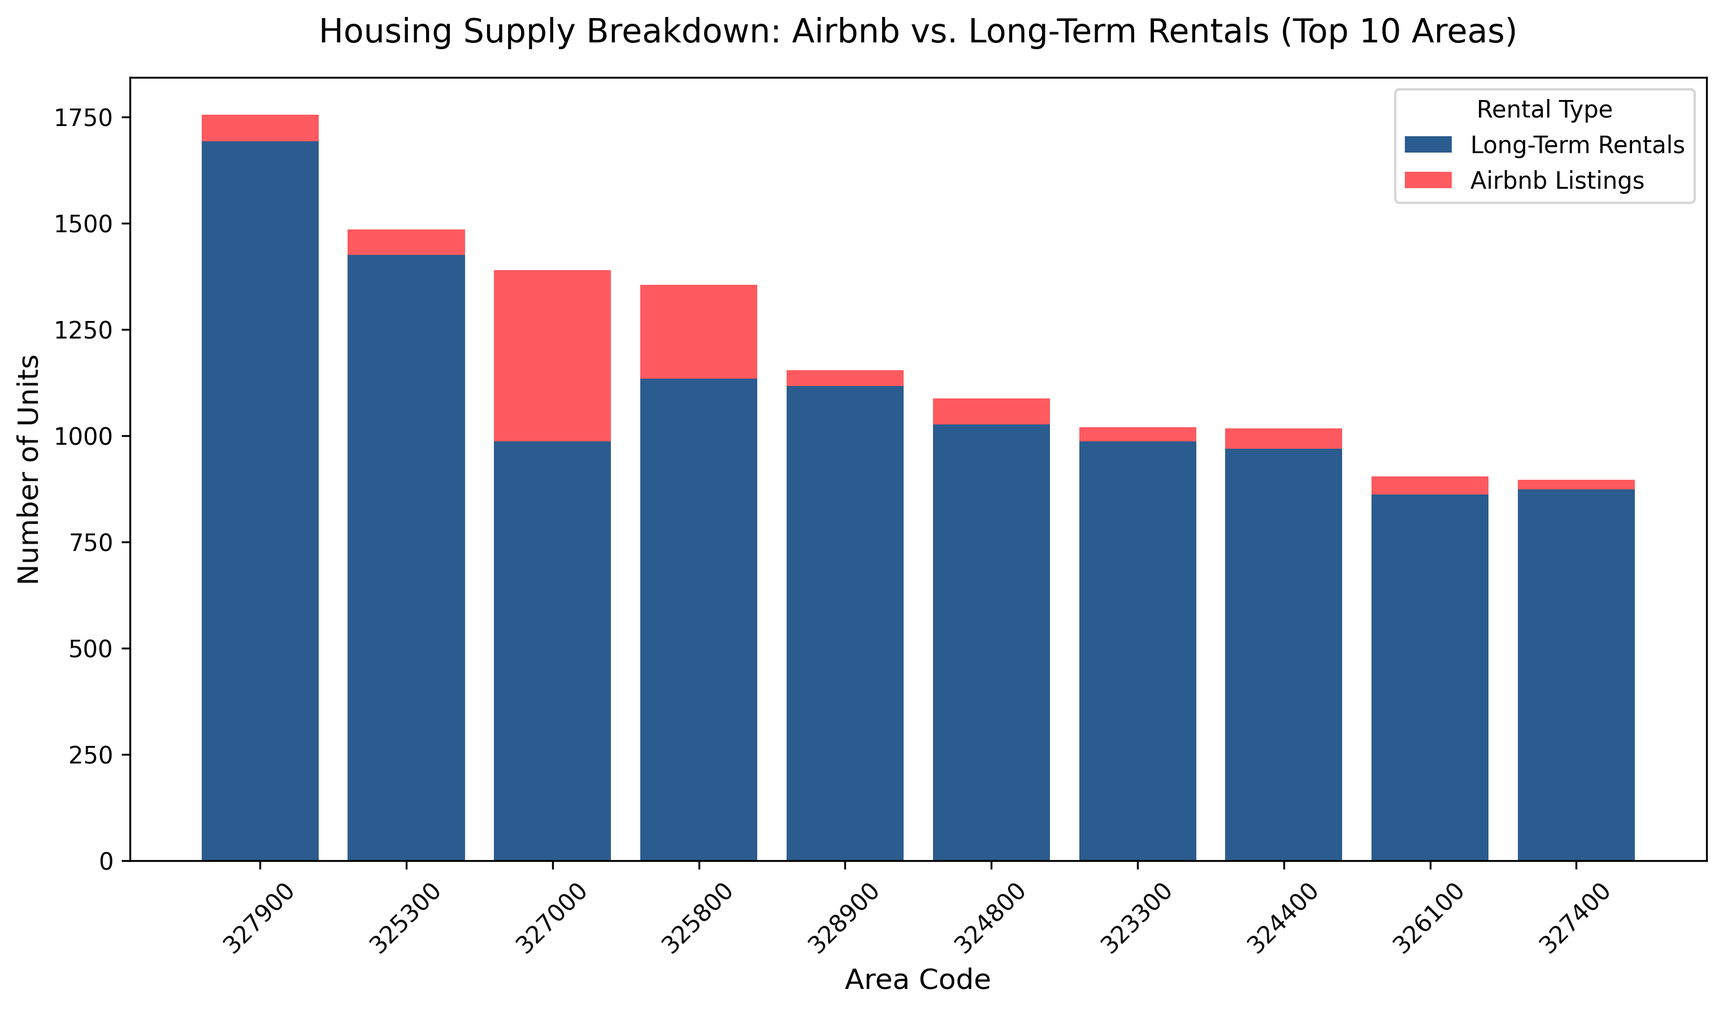
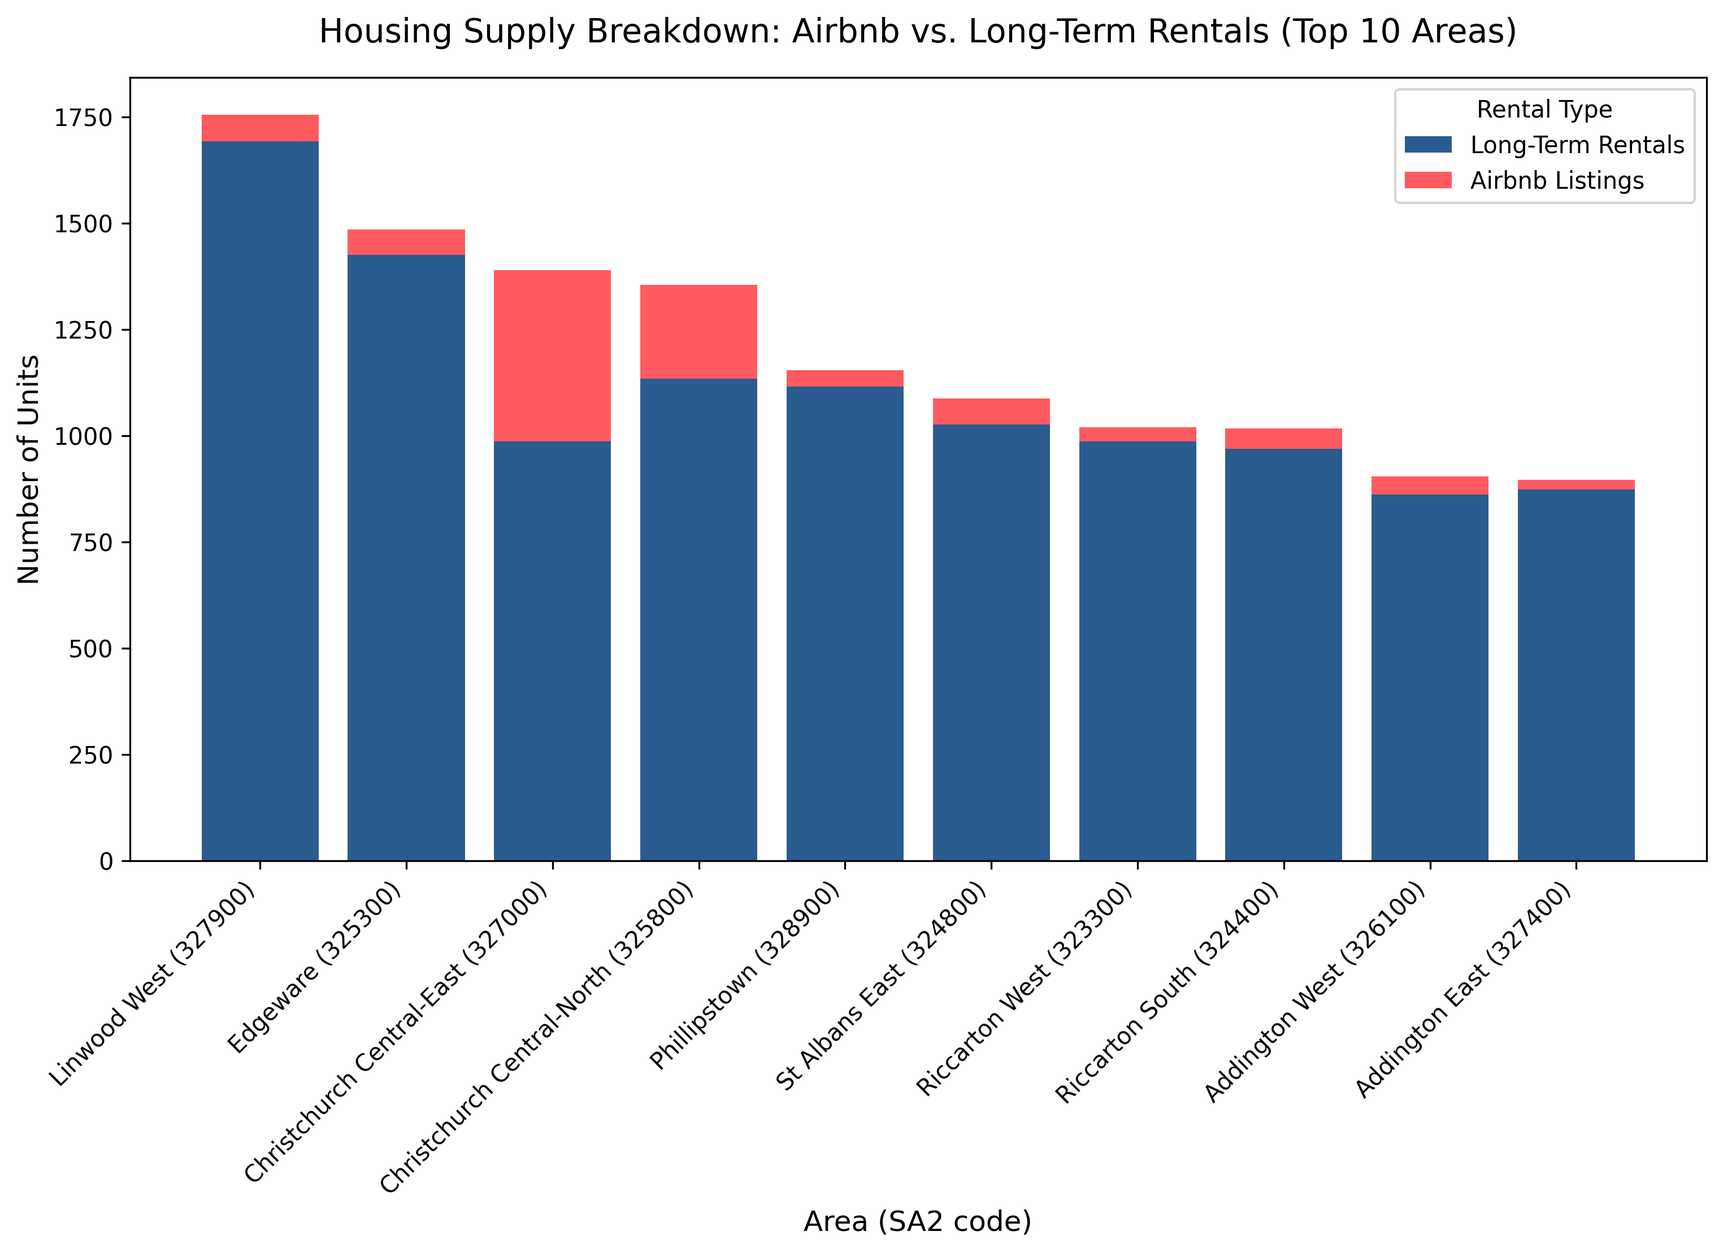
add tqdm progress bar and SA2 Names for visualisation

diff --git a/src/W7_Deliverable_5/fetch_area_codes.py b/src/W7_Deliverable_5/fetch_area_codes.py
@@ -14,6 +14,7 @@ from pathlib import Path
 import pandas as pd
 import requests
 from dotenv import load_dotenv
+from tqdm import tqdm
 
 sys.path.append(str(Path(__file__).resolve().parents[1]))  # lets this file find src/config.py
 import config
@@ -27,14 +28,33 @@ MAX_WORKERS = 8
 REQUEST_TIMEOUT_SECONDS = 10
 
 
-def query_layer(lat, lon, api_key, layer_id=config.SA2_2019_LAYER_ID):
-    """Return the SA2-2019 code containing (lat, lon), or None if it cannot be found."""
+def load_api_key():
+    """Read STATS_NZ_API_KEY from the root .env file and check that it works."""
+    load_dotenv(config.ENV_FILE)
+    api_key = os.getenv("STATS_NZ_API_KEY")
+    if not api_key:
+        sys.exit(
+            f"[ERROR] STATS_NZ_API_KEY not found. Copy .env.example to {config.ENV_FILE} "
+            "and add your Stats NZ Datafinder key."
+        )
+
+    print("Testing API connection with SA2 2019 layer...")
+    test_area = query_sa2(*TEST_POINT, api_key)
+    if not test_area:
+        sys.exit("[ERROR] API test failed. Check your API key in .env and your internet connection.")
+    print(f"API connection successful. Test area: {test_area[config.SA2_2019_NAME_FIELD]}")
+    return api_key
+
+
+def query_sa2(lat, lon, api_key, layer_id=config.SA2_2019_LAYER_ID):
+    """Return the SA2-2019 area containing (lat, lon) as a dict of its properties
+    (code, name, size), or None if it cannot be found."""
     params = {"key": api_key, "layer": layer_id, "x": lon, "y": lat}
     try:
         response = requests.get(API_URL, params=params, timeout=REQUEST_TIMEOUT_SECONDS)
         response.raise_for_status()
     except requests.RequestException as error:
-        print(f"[WARN] API request failed for ({lat}, {lon}): {error}")
+        tqdm.write(f"[WARN] API request failed for ({lat}, {lon}): {error}")
         return None
 
     features = (
@@ -44,27 +64,19 @@ def query_layer(lat, lon, api_key, layer_id=config.SA2_2019_LAYER_ID):
         .get(str(layer_id), {})
         .get("features", [])
     )
-    if not features:
-        return None
-    return features[0]["properties"].get(config.SA2_2019_CODE_FIELD)
+    return features[0]["properties"] if features else None
+
+
+def query_many(coords, api_key, description):
+    """Query a list of (lat, lon) pairs in parallel, with a progress bar."""
+    with ThreadPoolExecutor(max_workers=MAX_WORKERS) as pool:
+        results = pool.map(lambda c: query_sa2(c[0], c[1], api_key), coords)
+        return list(tqdm(results, total=len(coords), desc=description, unit="request"))
 
 
 def main():
-    load_dotenv(config.ENV_FILE)
-    api_key = os.getenv("STATS_NZ_API_KEY")
-    if not api_key:
-        sys.exit(
-            f"[ERROR] STATS_NZ_API_KEY not found. Copy .env.example to {config.ENV_FILE} "
-            "and add your Stats NZ Datafinder key."
-        )
-
+    api_key = load_api_key()
     airbnb_df = pd.read_csv(config.require(config.CHCH_CLEAN))
-
-    print("Testing API connection with SA2 2019 layer...")
-    test_code = query_layer(*TEST_POINT, api_key)
-    if not test_code:
-        sys.exit("[ERROR] API test failed. Check your API key in .env and your internet connection.")
-    print(f"API connection successful. Test area code: {test_code}")
 
     # Many rows share a location, so query each unique coordinate pair only once.
     coords = list(
@@ -75,9 +87,11 @@ def main():
     )
     print(f"Total rows: {len(airbnb_df):,} | Unique locations to query: {len(coords):,}")
 
-    with ThreadPoolExecutor(max_workers=MAX_WORKERS) as pool:
-        codes = list(pool.map(lambda c: query_layer(c[0], c[1], api_key), coords))
-    coord_lookup = dict(zip(coords, codes))
+    areas = query_many(coords, api_key, "Looking up area codes")
+    coord_lookup = {
+        coord: area.get(config.SA2_2019_CODE_FIELD) if area else None
+        for coord, area in zip(coords, areas)
+    }
 
     airbnb_df["area_code"] = [
         coord_lookup.get((lat, lon))

diff --git a/src/W7_Deliverable_5/fetch_area_names.py b/src/W7_Deliverable_5/fetch_area_names.py
@@ -1,0 +1,54 @@
+"""Deliverable 5: look up the name of every SA2 area in the data (e.g. 322200 -> Rutland).
+
+The bond data only has SA2 codes, so the names come from the same Stats NZ API
+as the area codes. One listing location per area is enough: 171 requests
+instead of one per listing. The result is saved, so run_pipeline.py skips
+this step when it already exists.
+"""
+import sys
+from pathlib import Path
+
+import pandas as pd
+
+sys.path.append(str(Path(__file__).resolve().parents[1]))  # lets this file find src/config.py
+import config
+from fetch_area_codes import load_api_key, query_many
+
+
+def main():
+    api_key = load_api_key()
+    airbnb_df = pd.read_csv(
+        config.require(config.AIRBNB_WITH_AREA_CODES), dtype={"area_code": "string"}
+    )
+    airbnb_df["area_code"] = config.clean_area_code(airbnb_df["area_code"])
+
+    # One listing location per area code is enough to identify the area.
+    sample = airbnb_df.dropna(subset=["area_code"]).drop_duplicates("area_code")
+    coords = list(sample[["latitude", "longitude"]].itertuples(index=False, name=None))
+    areas = query_many(coords, api_key, "Looking up area names")
+
+    names = pd.DataFrame(
+        {
+            "area_code": sample["area_code"].to_numpy(),
+            "area_name": [area.get(config.SA2_2019_NAME_FIELD) if area else None for area in areas],
+            "api_code": [area.get(config.SA2_2019_CODE_FIELD) if area else None for area in areas],
+        }
+    )
+
+    # The same point must fall in the same area it was coded to in step 1.
+    mismatched = names["api_code"].notna() & (names["api_code"] != names["area_code"])
+    if mismatched.any():
+        sys.exit(f"[ERROR] {mismatched.sum()} areas returned a different code than before.")
+
+    missing = names["area_name"].isna().sum()
+    if missing:
+        print(f"[WARN] {missing} areas did not get a name; charts will show their code instead.")
+
+    names = names.drop(columns="api_code").sort_values("area_code")
+    names.to_csv(config.SA2_AREA_NAMES, index=False)
+    print(f"Found names for {names['area_name'].notna().sum()} of {len(names)} areas")
+    print(f"Saved to: {config.SA2_AREA_NAMES}")
+
+
+if __name__ == "__main__":
+    main()

diff --git a/src/run_pipeline.py b/src/run_pipeline.py
@@ -15,7 +15,11 @@ from pathlib import Path
 import config
 
 SRC_DIR = Path(__file__).resolve().parent
-API_STEP = "W7_Deliverable_5/fetch_area_codes.py"
+# Steps that call the Stats NZ API: slow and need a key, so their saved output is reused.
+API_STEPS = {
+    "W7_Deliverable_5/fetch_area_codes.py": config.AIRBNB_WITH_AREA_CODES,
+    "W7_Deliverable_5/fetch_area_names.py": config.SA2_AREA_NAMES,
+}
 
 STEPS = [
     # Deliverable 3: combine the monthly snapshots, summary statistics, plots
@@ -26,8 +30,8 @@ STEPS = [
     "W6_Deliverable_4/clean_christchurch.py",
     "W6_Deliverable_4/filter_timeframe.py",
     "W6_Deliverable_4/clean_bond_data.py",
-    # Deliverable 5: area codes, merge, checks, analysis
-    API_STEP,
+    # Deliverable 5: area codes and names, merge, checks, analysis
+    *API_STEPS,
     "W7_Deliverable_5/merge_datasets.py",
     "W7_Deliverable_5/merge_datasets_sql.py",
     "W7_Deliverable_5/sanity_checks.py",
@@ -42,14 +46,14 @@ def main():
     parser.add_argument(
         "--refresh-area-codes",
         action="store_true",
-        help="query the Stats NZ API again even if area codes are already saved",
+        help="query the Stats NZ API again even if area codes and names are already saved",
     )
     args = parser.parse_args()
 
     for step in STEPS:
-        # The API step is slow and needs a key, so reuse its saved output when possible.
-        if step == API_STEP and config.AIRBNB_WITH_AREA_CODES.exists() and not args.refresh_area_codes:
-            print(f"\n=== Skipping {step} (using saved {config.AIRBNB_WITH_AREA_CODES.name}) ===", flush=True)
+        saved_output = API_STEPS.get(step)
+        if saved_output and saved_output.exists() and not args.refresh_area_codes:
+            print(f"\n=== Skipping {step} (using saved {saved_output.name}) ===", flush=True)
             continue
 
         print(f"\n=== Running {step} ===", flush=True)

diff --git a/src/config.py b/src/config.py
@@ -38,6 +38,7 @@ CHCH_CLEAN = INTERIM_DIR / "christchurch_listings_clean.csv"  # W6 clean_christc
 BOND_TIMEFRAME = INTERIM_DIR / "bond_data_timeframe.csv"  # W6 filter_timeframe.py
 BOND_CLEAN = INTERIM_DIR / "bond_data_clean.csv"  # W6 clean_bond_data.py
 AIRBNB_WITH_AREA_CODES = INTERIM_DIR / "airbnb_with_area_codes.csv"  # W7 fetch_area_codes.py
+SA2_AREA_NAMES = INTERIM_DIR / "sa2_area_names.csv"  # W7 fetch_area_names.py
 SQLITE_DB = INTERIM_DIR / "christchurch_housing.db"  # W7 merge_datasets_sql.py
 
 # --- Processed files ---
@@ -61,6 +62,7 @@ TOP_N = 10
 # Stats NZ Datafinder: Statistical Area 2 2019 layer (matches the bond data's SA2-2019 IDs).
 SA2_2019_LAYER_ID = "98970"
 SA2_2019_CODE_FIELD = "SA22019_V1_00"
+SA2_2019_NAME_FIELD = "SA22019_V1_00_NAME"
 
 # English month names written out, so labels do not depend on the computer's language settings.
 MONTH_NAMES = ["Jan", "Feb", "Mar", "Apr", "May", "Jun", "Jul", "Aug", "Sep", "Oct", "Nov", "Dec"]
@@ -97,3 +99,14 @@ def quarter_key(month_year):
 def clean_area_code(codes):
     """Normalise SA2 codes to plain text ('326600'), dropping any trailing '.0'."""
     return codes.astype("string").str.replace(r"\.0$", "", regex=True).str.strip()
+
+
+def area_names():
+    """SA2 code -> area name (e.g. '322200' -> 'Rutland'), from the Stats NZ lookup."""
+    names = pd.read_csv(require(SA2_AREA_NAMES), dtype="string")
+    return dict(zip(names["area_code"], names["area_name"]))
+
+
+def area_label(code, name):
+    """Chart label such as 'Rutland (322200)'; just the code if the name is unknown."""
+    return f"{name} ({code})" if pd.notna(name) else str(code)

diff --git a/src/W7_Deliverable_5/q2_price_gap.py b/src/W7_Deliverable_5/q2_price_gap.py
@@ -30,15 +30,17 @@ def price_gaps_by_area(df):
 
 def plot_top_gaps(location_gaps):
     top = location_gaps.head(config.TOP_N).iloc[::-1]  # largest bar at the top
+    labels = [config.area_label(code, name) for code, name in zip(top.index, top["area_name"])]
 
     fig, ax = plt.subplots(figsize=(10, 6))
-    bars = ax.barh(top.index.astype(str), top["median"], color="#2b5c8f")
+    bars = ax.barh(labels, top["median"], color="#2b5c8f")
     ax.bar_label(bars, labels=[f"${v:.2f}" for v in top["median"]], padding=5, fontsize=10)
     ax.set_title(
-        f"Top {config.TOP_N} Area Codes by Short- vs. Long-Term Price Gap", fontsize=14, pad=15
+        f"Top {config.TOP_N} Areas by Short- vs. Long-Term Price Gap", fontsize=14, pad=15
     )
     ax.set_xlabel("Median Daily Price Gap ($)", fontsize=12)
-    ax.set_ylabel("Area Code", fontsize=12)
+    ax.set_ylabel("Area (SA2 code)", fontsize=12)
+    ax.set_xlim(0, top["median"].max() * 1.15)  # room for the value labels
     ax.grid(axis="x", alpha=0.3)
     fig.savefig(CHART_OUTPUT, dpi=300, bbox_inches="tight")
     plt.close(fig)
@@ -47,6 +49,7 @@ def plot_top_gaps(location_gaps):
 def main():
     df = pd.read_csv(config.require(config.MERGED), dtype={"area_code": "string"})
     location_gaps = price_gaps_by_area(df)
+    location_gaps.insert(0, "area_name", location_gaps.index.map(config.area_names()))
 
     config.D5_OUTPUT_DIR.mkdir(parents=True, exist_ok=True)
     location_gaps.to_csv(CSV_OUTPUT)

diff --git a/src/W7_Deliverable_5/q3_supply_comparison.py b/src/W7_Deliverable_5/q3_supply_comparison.py
@@ -35,7 +35,7 @@ def supply_by_area(df):
 def plot_top_supply(supply):
     # Areas without bond data have no total, so they cannot be ranked here.
     top = supply.dropna(subset=["total_supply"]).nlargest(config.TOP_N, "total_supply")
-    area_labels = top["area_code"].astype(str)
+    area_labels = [config.area_label(code, name) for code, name in zip(top["area_code"], top["area_name"])]
 
     fig, ax = plt.subplots(figsize=(12, 6))
     ax.bar(area_labels, top["long_term_rentals"], label="Long-Term Rentals", color="#2b5c8f")
@@ -51,10 +51,11 @@ def plot_top_supply(supply):
         fontsize=14,
         pad=15,
     )
-    ax.set_xlabel("Area Code", fontsize=12)
+    ax.set_xlabel("Area (SA2 code)", fontsize=12)
     ax.set_ylabel("Number of Units", fontsize=12)
     ax.legend(title="Rental Type")
     ax.tick_params(axis="x", rotation=45)
+    plt.setp(ax.get_xticklabels(), ha="right")
     fig.savefig(CHART_OUTPUT, dpi=300, bbox_inches="tight")
     plt.close(fig)
 
@@ -62,6 +63,7 @@ def plot_top_supply(supply):
 def main():
     df = pd.read_csv(config.require(config.MERGED), dtype={"area_code": "string"})
     supply = supply_by_area(df)
+    supply.insert(1, "area_name", supply["area_code"].map(config.area_names()))
 
     config.D5_OUTPUT_DIR.mkdir(parents=True, exist_ok=True)
     supply.to_csv(CSV_OUTPUT, index=False)

diff --git a/src/W7_Deliverable_5/best_practices_notes.md b/src/W7_Deliverable_5/best_practices_notes.md
@@ -30,13 +30,14 @@ src/             code, one folder per deliverable, plus config.py and run_pipeli
 | Change | Why (best practice) |
 |---|---|
 | Added `src/config.py`: every path and constant (city, quarters, SA2 layer, Christchurch Central code, days per week) is defined once. | **Single source of truth / no magic numbers.** Before, each script built its own paths, and values like `326600`, `7` and `"98970"` were typed inline. |
-| Added `src/run_pipeline.py`: runs all 13 steps in order, stops at the first failure, and skips the slow API step when its result already exists. | **Reproducibility:** one command rebuilds everything from raw data. |
-| Added `requirements.txt` and `.env.example`. | **Reproducible environment**, so a teammate knows which packages to install and how to set up the API key. We dropped `seaborn` and `tqdm`, which were only used for one chart and a progress bar. |
+| Added `src/run_pipeline.py`: runs all 14 steps in order, stops at the first failure, and skips the slow API steps when their results already exist. | **Reproducibility:** one command rebuilds everything from raw data. |
+| Added `requirements.txt` and `.env.example`. | **Reproducible environment**, so a teammate knows which packages to install and how to set up the API key. We dropped `seaborn`, which was only used for one chart. |
 | New `concatenate_chch.py` (Deliverable 3) replaces `Chch_Data_filtering.py` and `Summary Statistics.py`. It saves the summary tables as CSVs (numeric, categorical, date, missing values). | **Deliverable 3 requirements in one script.** It also avoids a version problem: `Summary Statistics.py` chose text columns by dtype `object`, which pandas 3 marks as deprecated for text columns (a warning now, and those columns will be missed in future versions). The new script classifies columns with `is_numeric_dtype`, which behaves the same on every version. |
 | Merged duplicate scripts: `Nic Q2` + `price_gap_analysis.py` → `q2_price_gap.py`, and `Nic Q3` + `supply_analysis.py` → `q3_supply_comparison.py`. | **DRY.** Each pair did the same calculation and overwrote the same output file. |
 | Shared helpers (quarter mapping, area-code cleaning, join inputs) are written once and reused by both merge scripts and the sanity checks. | **DRY.** `get_quarter_start()` used to be copied in two files. |
 | Every script has a docstring, small functions and a `main()` behind `if __name__ == "__main__":`. Files are `snake_case`, with the original author credited in the docstring. | **Readable, modular code.** Author names in file names (`Jin merge_datasets.py`) are unnecessary because Git records who wrote what. |
-| `fetch_area_codes.py`: replaced `except Exception: pass` with `requests.RequestException` handling that reports failures, and replaced the process pool with a small thread pool. | **Fail loudly.** API errors were silently turning into blank area codes. Threads suit network-bound work and avoid Windows multiprocessing problems. |
+| `fetch_area_codes.py`: replaced `except Exception: pass` with `requests.RequestException` handling that reports failures, and replaced the process pool with a small thread pool that shows a `tqdm` progress bar. | **Fail loudly.** API errors were silently turning into blank area codes. Threads suit network-bound work and avoid Windows multiprocessing problems, and the progress bar shows the slow step is still working. |
+| New `fetch_area_names.py` looks up each SA2 area's name (one request per area, 171 in total). The Q2/Q3 tables gain an `area_name` column, and the charts show labels such as `Christchurch Central-East (327000)`. | **Readable results.** A reader cannot interpret a bare SA2 code. The step also checks that each area returns the same code as before. |
 | A missing input stops the script with a message saying what to download or which step to run. `merge_datasets.py` uses `validate="many_to_one"`. | **Fail early with clear errors**, instead of a confusing `KeyError` later on. |
 | Removed `plt.show()` (figures are saved and closed) and the no-op `.replace(0, pd.NA)`. | Scripts must run **unattended**, and code should not change data without a reason. |
 | Month labels use a fixed English month list, and sorts use `kind="stable"`. | **Same result on every computer:** the labels do not depend on the language settings, and tied rows sort the same way on pandas 2 and 3. |

diff --git a/src/W7_Deliverable_5/design_principles.md b/src/W7_Deliverable_5/design_principles.md
@@ -26,6 +26,7 @@ All inputs are downloaded by hand into `data/raw/`. The code only reads from thi
 | `interim/bond_data_timeframe.csv` | `W6/filter_timeframe.py` | Bond rows for the 3 matching quarters (2025-10, 2026-01, 2026-04) |
 | `interim/bond_data_clean.csv` | `W6/clean_bond_data.py` | Missing and `-99` location IDs removed, types fixed |
 | `interim/airbnb_with_area_codes.csv` | `W7/fetch_area_codes.py` | Listings + SA2-2019 `area_code` (needs the API; reused once made) |
+| `interim/sa2_area_names.csv` | `W7/fetch_area_names.py` | `area_code` → `area_name` for the 171 areas (e.g. 327000 = Christchurch Central-East), used to label the Q2/Q3 tables and charts |
 | `processed/final_airbnb_bond_merged.csv` | `W7/merge_datasets.py` | One row per listing per month, with its area's bond figures for that quarter (28,795 × 29) |
 | `processed/final_airbnb_bond_merged_sql.csv` | `W7/merge_datasets_sql.py` | The same join done in SQLite, used as a cross-check |
 
@@ -47,6 +48,7 @@ data/raw/listings_*.csv ─► [D3] concatenate_chch ─► interim/concatenate_
                                              [D4] clean_christchurch ─► interim/christchurch_listings_clean.csv
                                                                                         │
                                              [D5] fetch_area_codes (Stats NZ API) ─► interim/airbnb_with_area_codes.csv
+                                             [D5] fetch_area_names (Stats NZ API) ─► interim/sa2_area_names.csv
                                                                                         │
 data/raw/Detailed-Quarterly…csv ─► [D4] filter_timeframe ─► clean_bond_data ─► interim/bond_data_clean.csv
                                                                                         │
@@ -64,7 +66,8 @@ data/raw/Detailed-Quarterly…csv ─► [D4] filter_timeframe ─► clean_bond
    because each month's snapshot matters. Missing values are kept, not invented. The bond data is cut to the three
    quarters that overlap the listings, and rows without a usable location are removed.
 3. **Spatial enrichment** — each *unique* latitude/longitude pair is sent to the Stats NZ API to get its SA2-2019 code.
-   SA2-**2019** is used because the bond data uses 2019 boundaries.
+   SA2-**2019** is used because the bond data uses 2019 boundaries. A second lookup (one point per area) gets each area's
+   name, so results read "Christchurch Central-East (327000)" instead of a bare code. Both lookups show a `tqdm` progress bar.
 4. **Temporal alignment** — monthly labels (`"May 2026"`) are mapped to the first month of their quarter (`"2026-04"`),
    which is how Tenancy Services labels `TimeFrame`.
 5. **Merge** — a left join on (area code, quarter), using only the bond rows where `Dwelling Type == ALL` and
@@ -99,8 +102,8 @@ Best practices from the Week 9 lectures that the project follows:
   along with row counts, duplicates, quarter alignment and rent ranges.
 - **Readable, modular code.** Each script has a docstring, small functions and a `main()` behind
   `if __name__ == "__main__":`, with `snake_case` file names. The original authors are credited in the docstrings.
-- **Efficiency.** The API is queried once per unique coordinate pair (not once per row) using a small thread pool, and
-  its result is cached so it isn't fetched again on every run.
+- **Efficiency.** The API is queried once per unique coordinate pair (not once per row), and names once per area,
+  using a small thread pool. Both results are cached so they aren't fetched again on every run.
 - **Documented decisions.** `cleaning_decisions.md` (Deliverable 4) and `explanation.md` (Deliverable 5) record what was
   done, why, and the effect on row counts.
 

diff --git a/README.md b/README.md
@@ -46,8 +46,9 @@ python src/run_pipeline.py
 ```
 
 This rebuilds everything in `data/interim/`, `data/processed/` and `output/` from the raw files, and stops with a clear
-message if a file is missing or a sanity check fails. The Stats NZ lookup is slow, so once
-`data/interim/airbnb_with_area_codes.csv` exists it is reused; add `--refresh-area-codes` to query the API again.
+message if a file is missing or a sanity check fails. The two Stats NZ lookups (area codes, then area names
+such as 327000 = Christchurch Central-East) are slow and show a progress bar. Once `data/interim/airbnb_with_area_codes.csv`
+and `data/interim/sa2_area_names.csv` exist they are reused; add `--refresh-area-codes` to query the API again.
 Each script in `src/` can also be run on its own.
 
 # AirBNB Data
